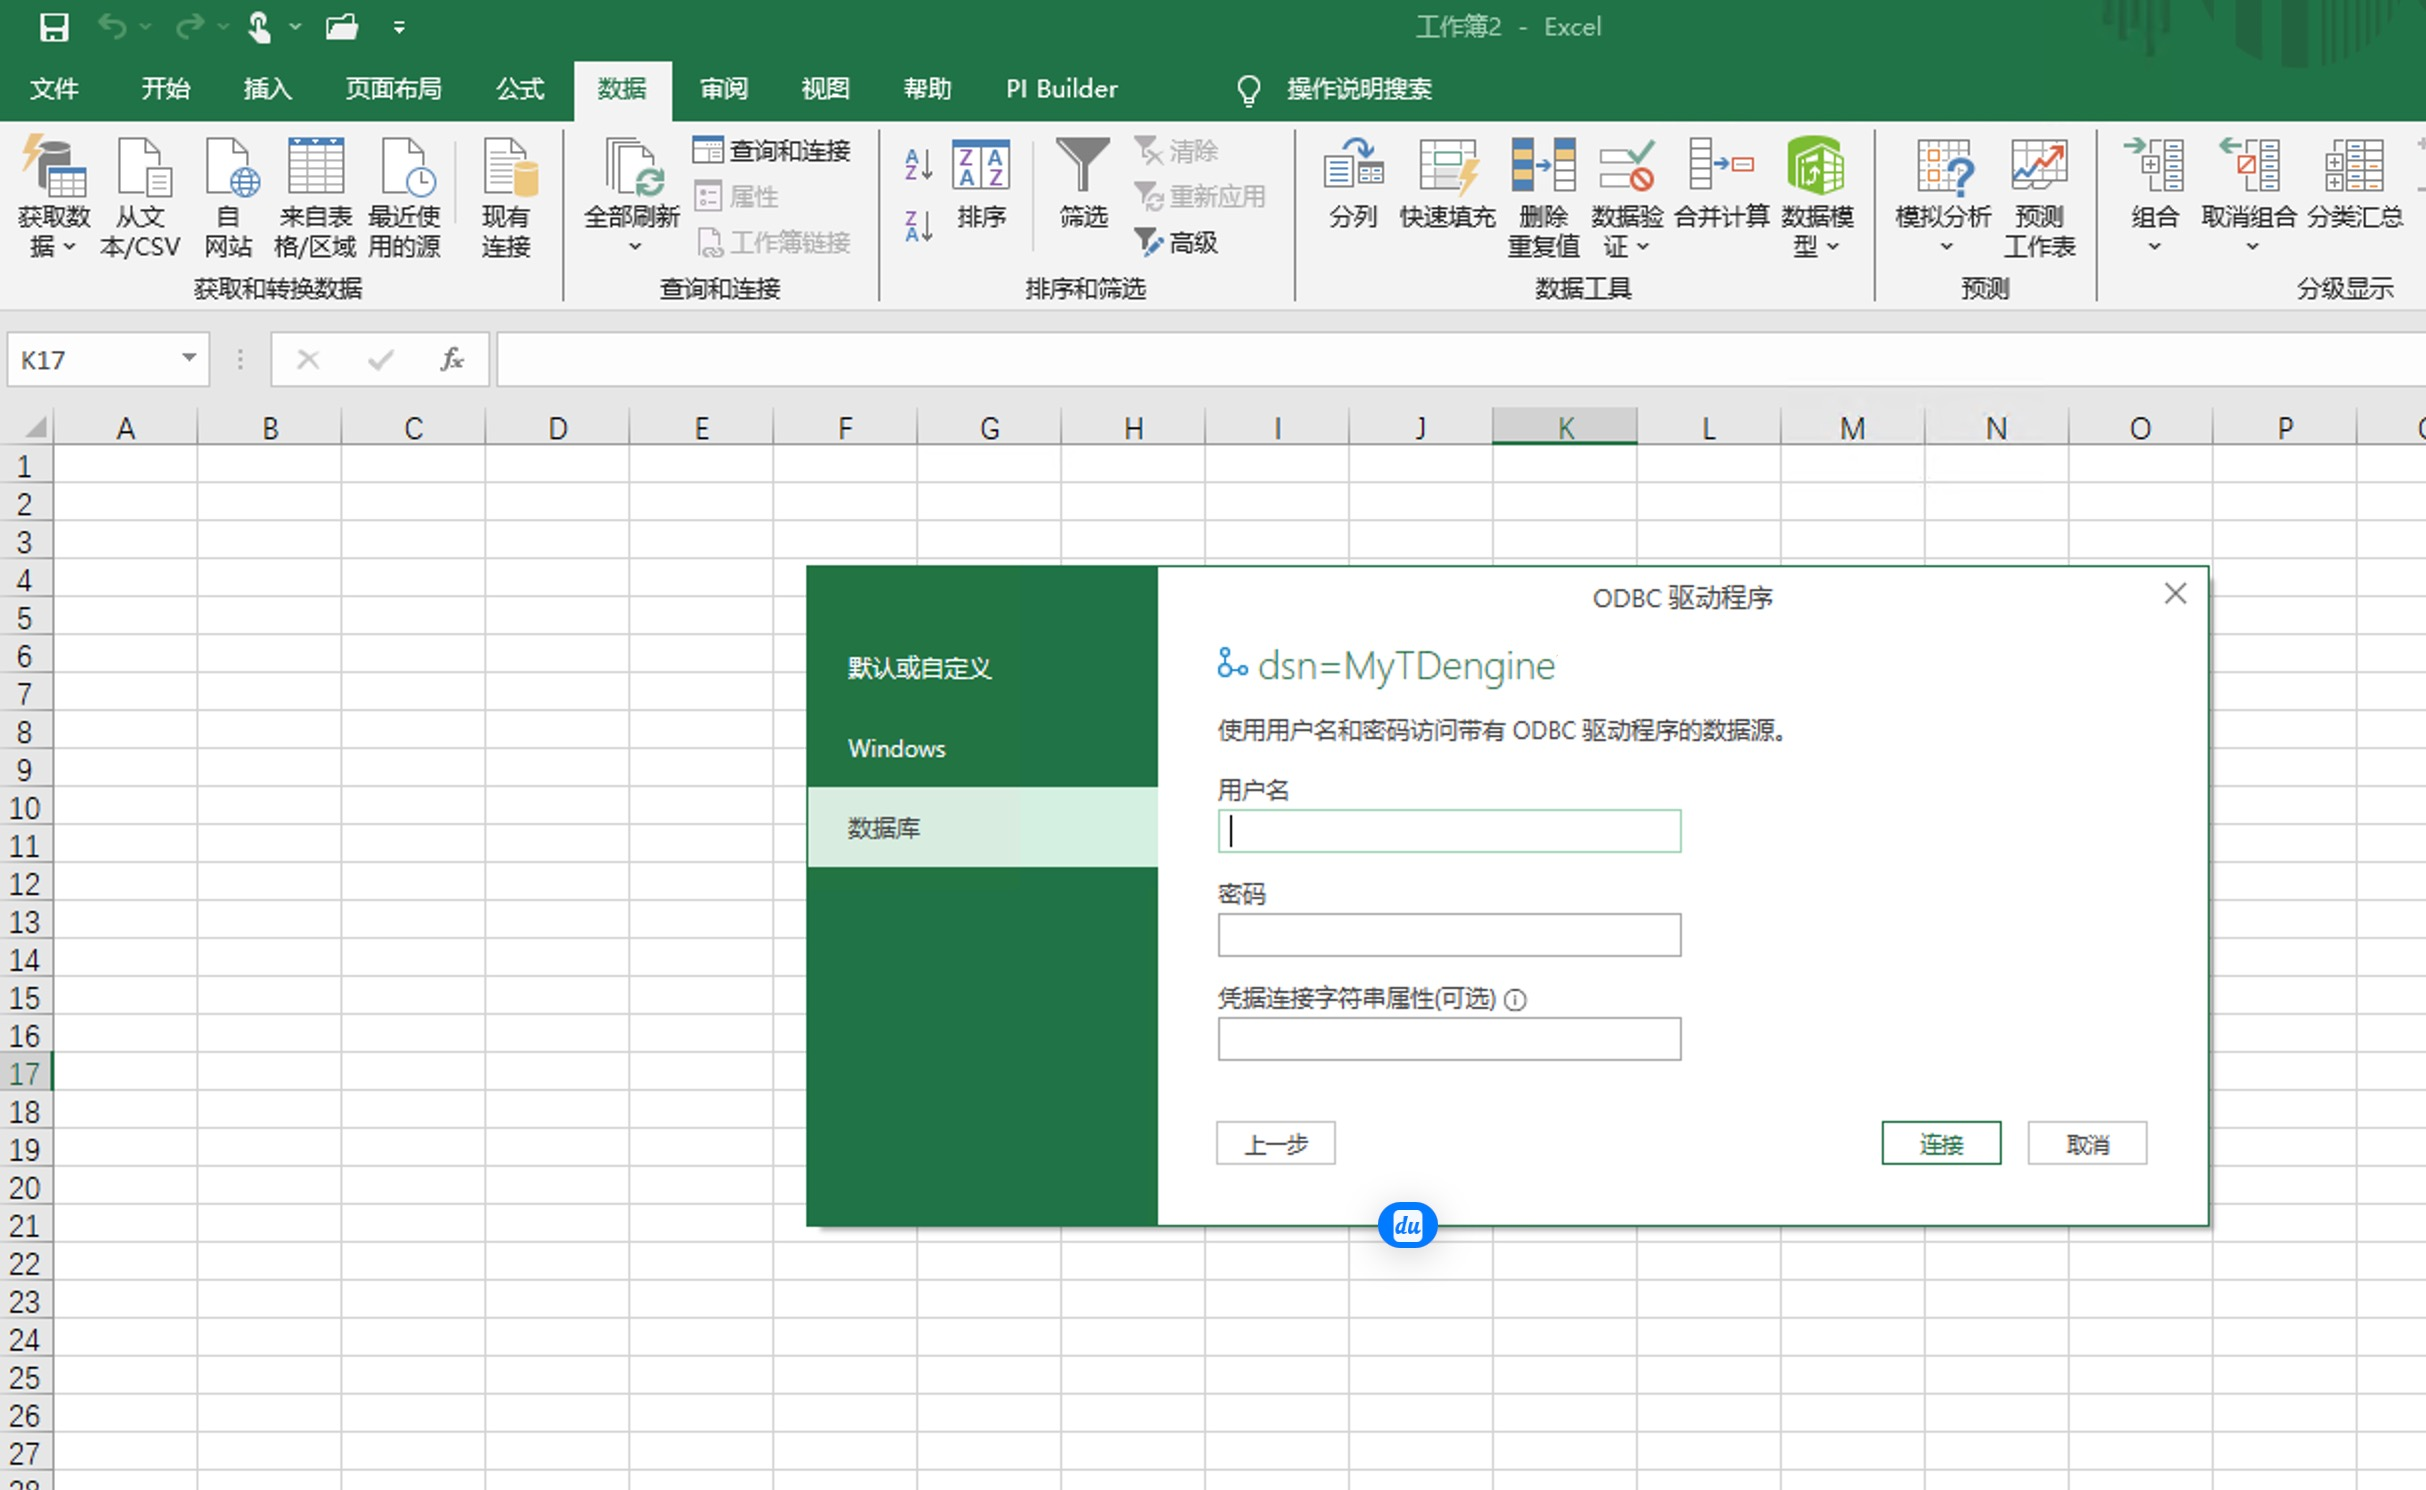
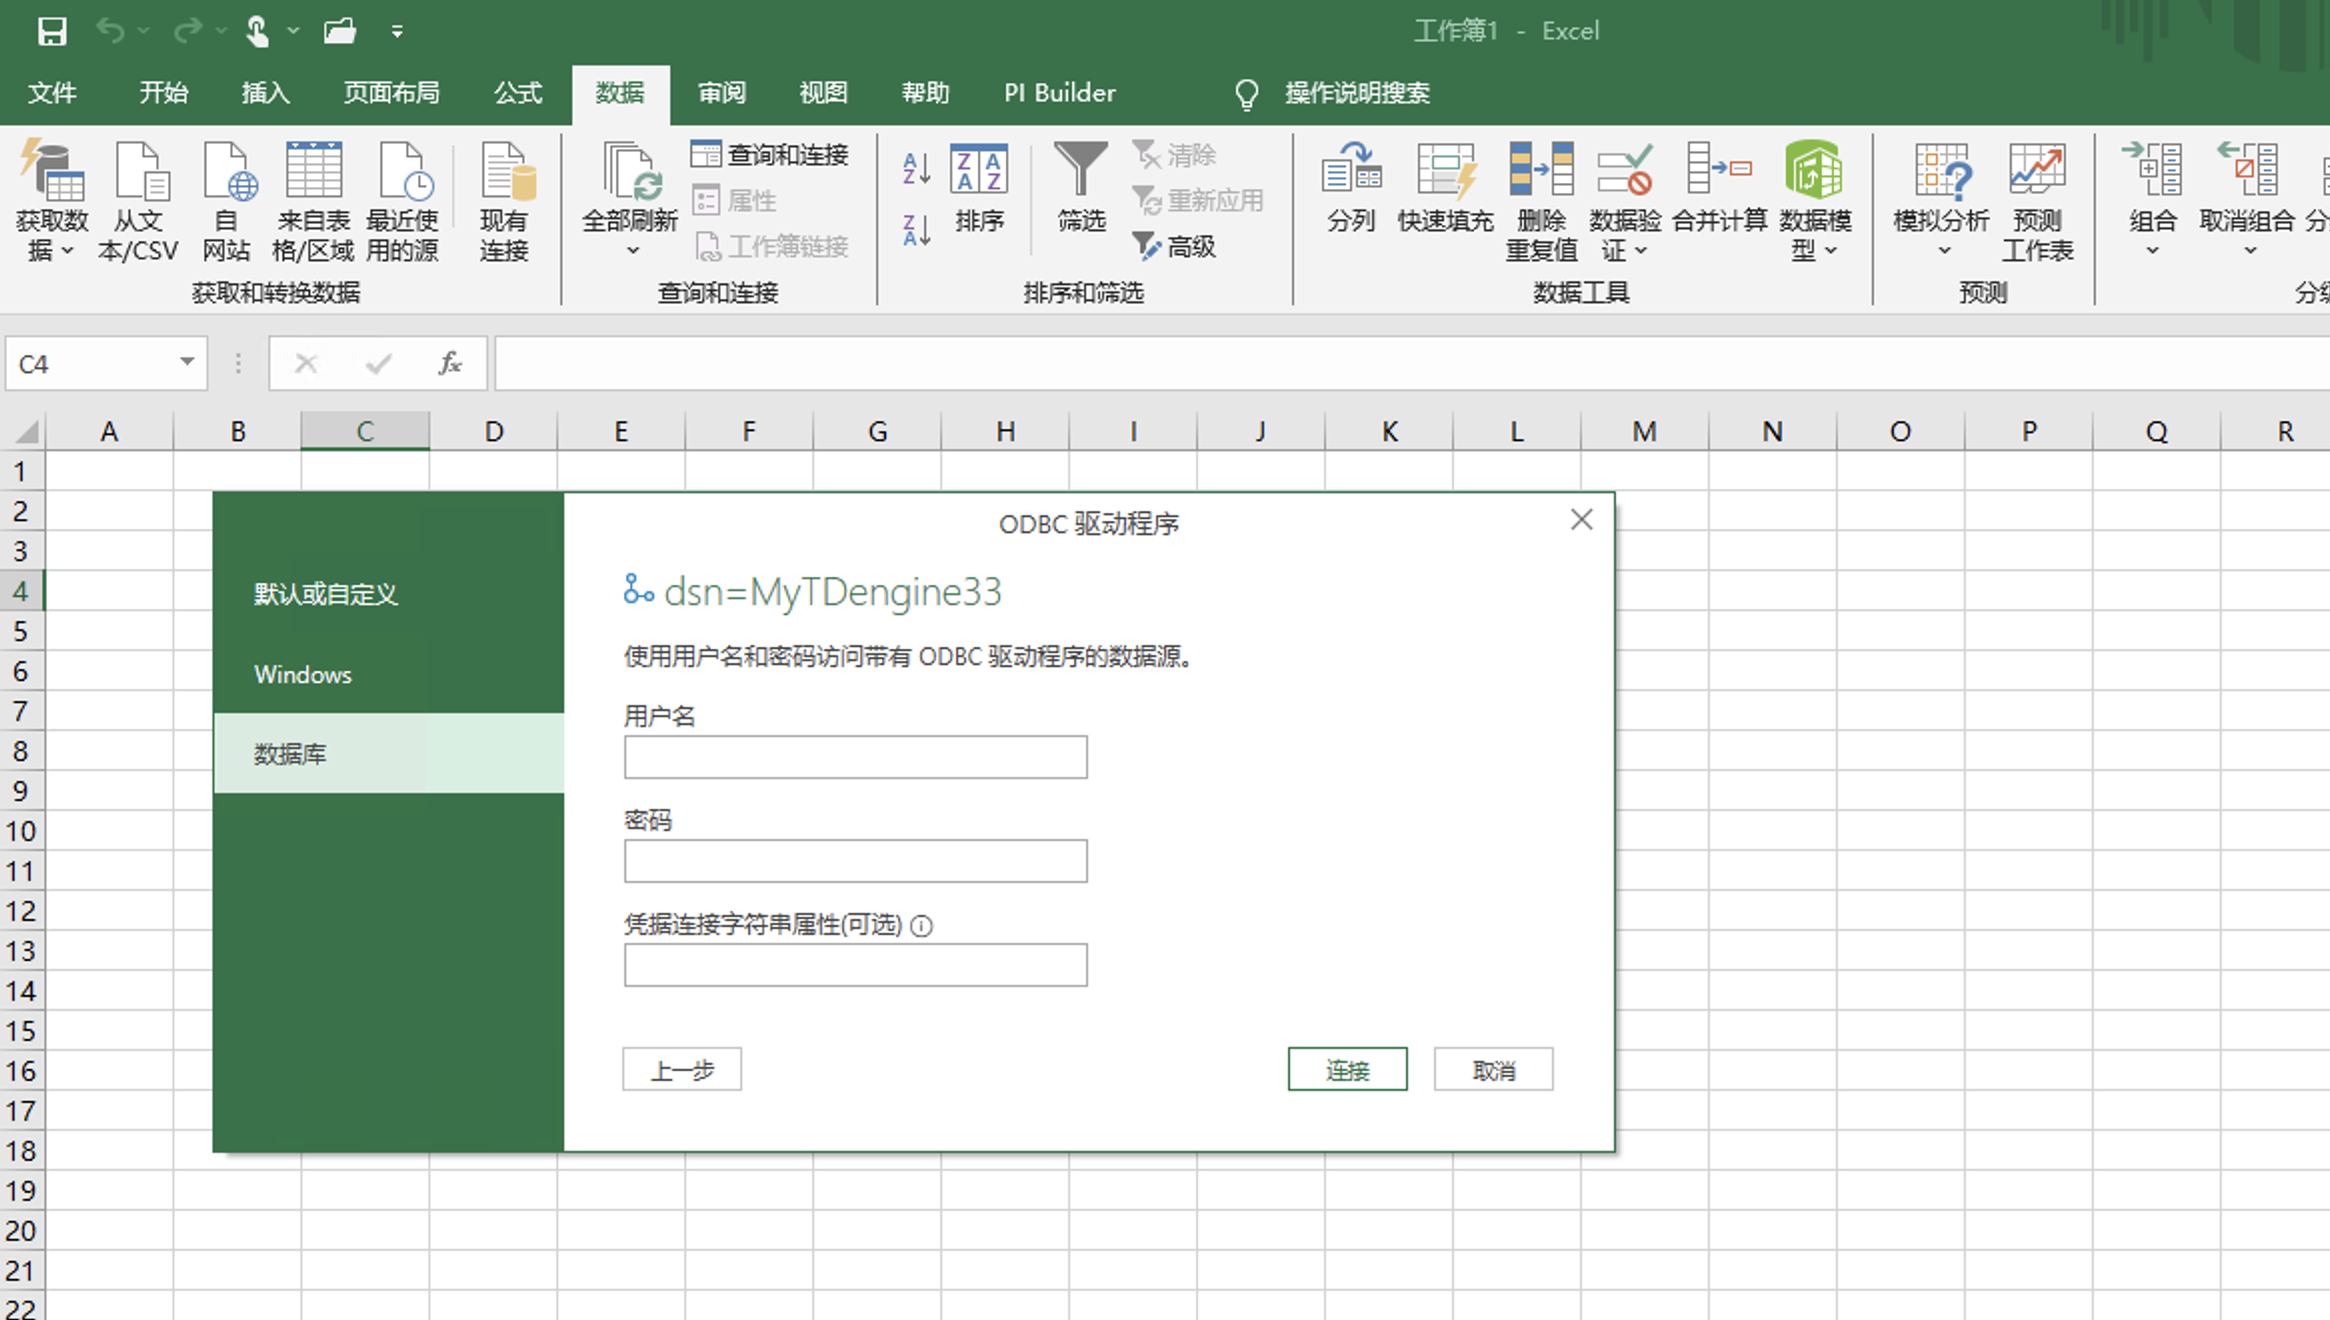
docs(en): add a connection section between Excel and TDEngine

diff --git a/docs/zh/10-third-party/05-bi/13-excel.md b/docs/zh/10-third-party/05-bi/13-excel.md
@@ -24,15 +24,11 @@ title: 与 Excel 集成
 
 ![excel-odbc](./excel/odbc-select.jpg) 
 
-**第 4 步**，在弹出窗口的【数据源名称(DSN)】下拉列表中选择【MyTDengine】后，点击【确定】按钮。 
-
-![excel-odbc](./excel/odbc-select.jpg) 
-
-**第 5 步**，输入 TDengine 的用户名密码
+**第 4 步**，输入 TDengine 的用户名密码
 
 ![excel-odbc](./excel/odbc-config.jpg) 
 
-在弹出的【导航器】对话框中，选择要加载的库表, 并点击【加载】完成数据加载。
+**第 5 步**，在弹出的【导航器】对话框中，选择要加载的库表, 并点击【加载】完成数据加载。
 
 ![excel-odbc](./excel/odbc-load.jpg)
 
